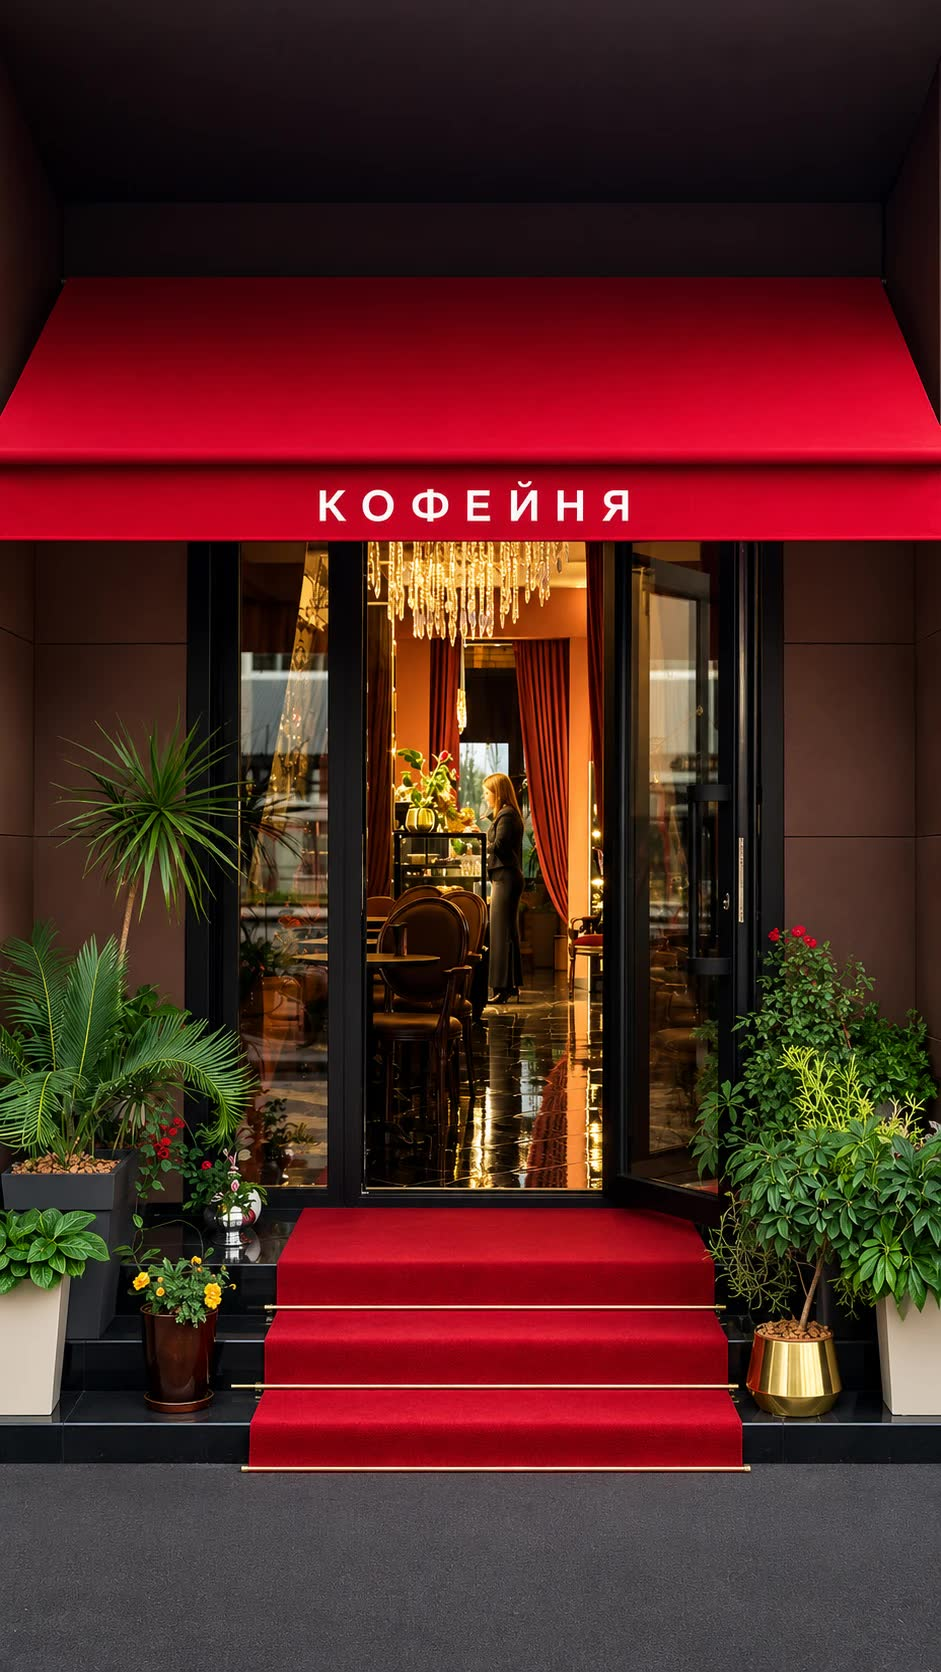
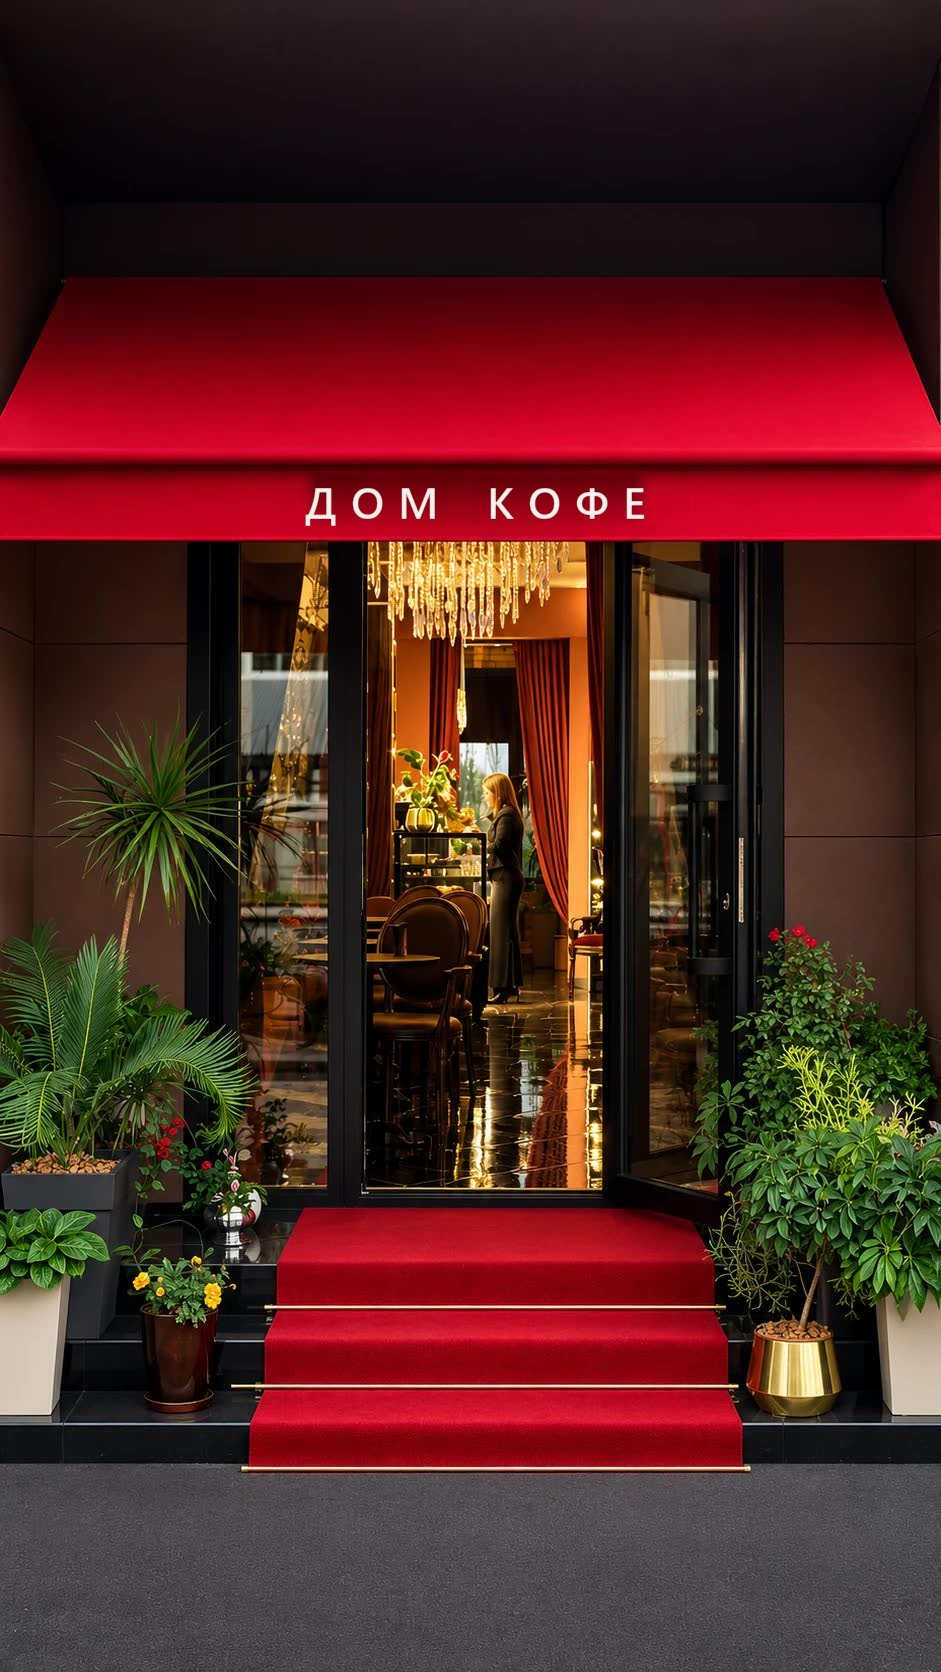
Вывеска на фото: «ДОМ КОФЕ» вместо «КОФЕЙНЯ»; на телефоне убрана надпись столбиком, текст внизу

Changed region(s): [[0.3082, 0.2799, 0.7088, 0.311]]

diff --git a/index.html b/index.html
@@ -368,6 +368,8 @@ html:not(.js-enhanced) #allDrinksFallback:focus-visible ~ #productGrid .menu-mor
 .hero__photo{opacity:1!important;animation:none!important}
 /* Phone hero: tagline and buttons sit lower, away from the wordmark */
 @media(max-width:580px){.hero__bottom{margin-top:56px}}
+/* Phone hero: the name now sits on the awning in the photo, so the stacked wordmark is hidden (still read by screen readers) */
+@media(max-width:580px){.hero__mobile-wordmark{position:absolute;width:1px;height:1px;overflow:hidden;clip:rect(0 0 0 0);white-space:nowrap}.hero__mobile-brand{min-height:0}.hero__mobile-brand:before{display:none}.hero__mobile-tag{margin-top:0}.hero__inner{justify-content:flex-end}.hero__bottom{margin-top:28px}}
 .menu-status{grid-column:1/-1;margin:0;padding:40px 0;color:var(--muted);text-align:center}
 </style>
 <script type="application/ld+json">{"@context": "https://schema.org", "@type": "CafeOrCoffeeShop", "name": "Дом кофе", "description": "Кофейня в Магасе. Горячий и холодный кофе, атмосфера, меню и маршрут.", "address": {"@type": "PostalAddress", "addressLocality": "Магас", "addressRegion": "Республика Ингушетия", "addressCountry": "RU"}, "geo": {"@type": "GeoCoordinates", "latitude": 43.159639, "longitude": 44.798812}, "hasMap": "https://yandex.ru/maps/org/dom_kofe/66554318891/", "servesCuisine": "Кофе и напитки", "hasMenu": "#menu"}</script>
